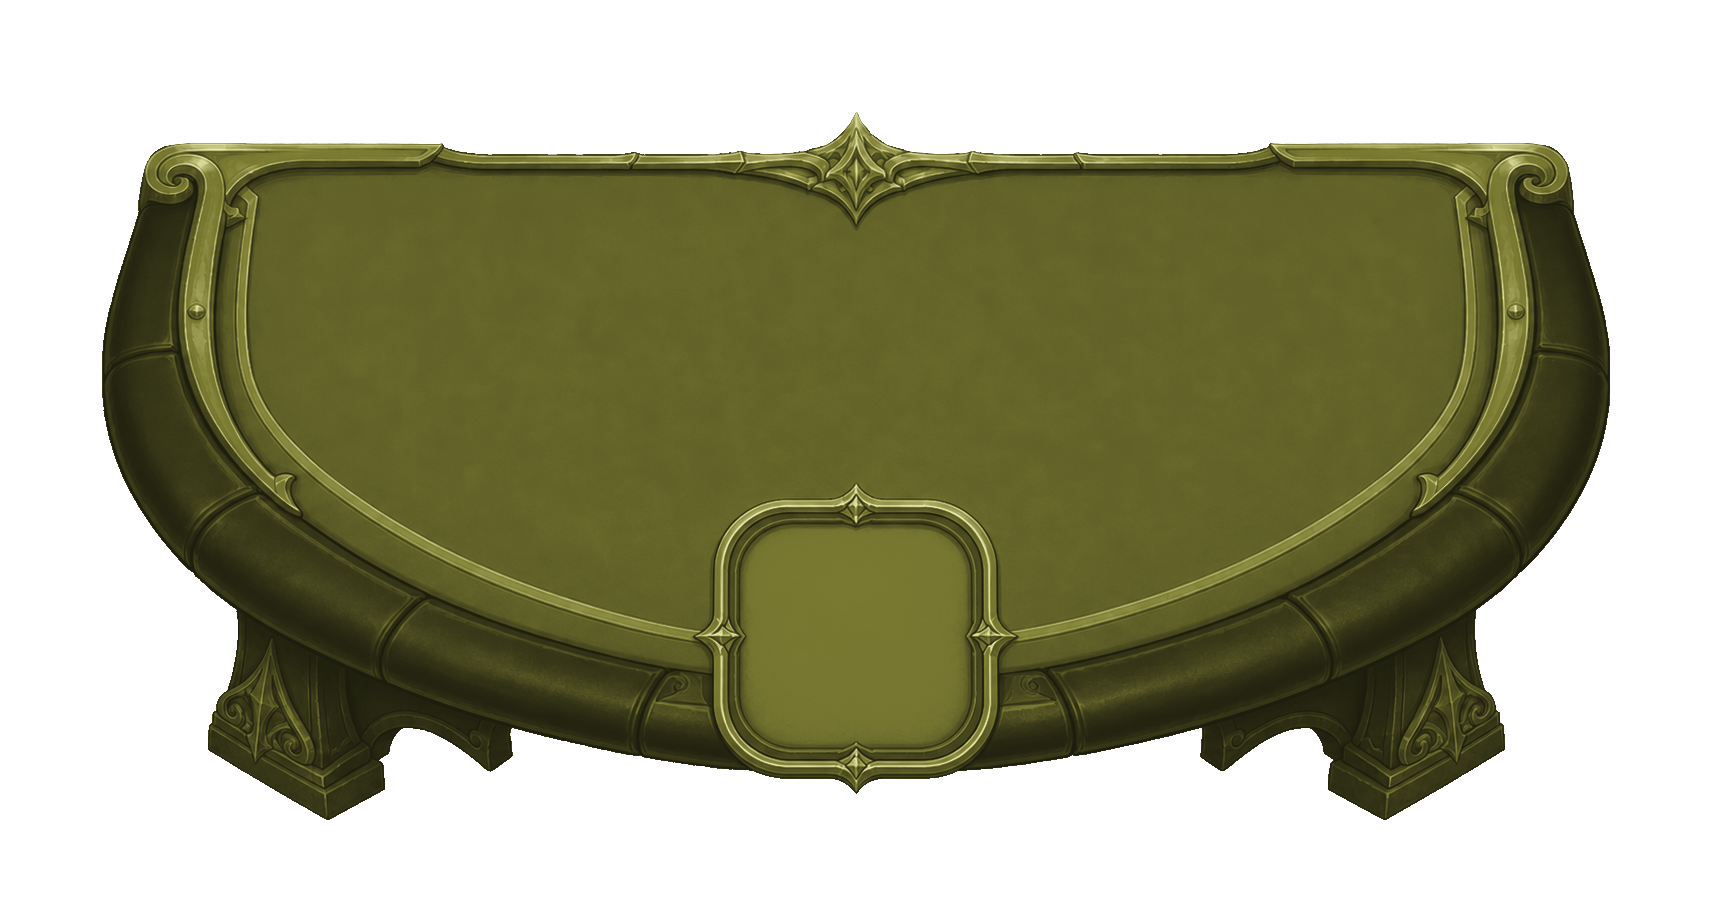
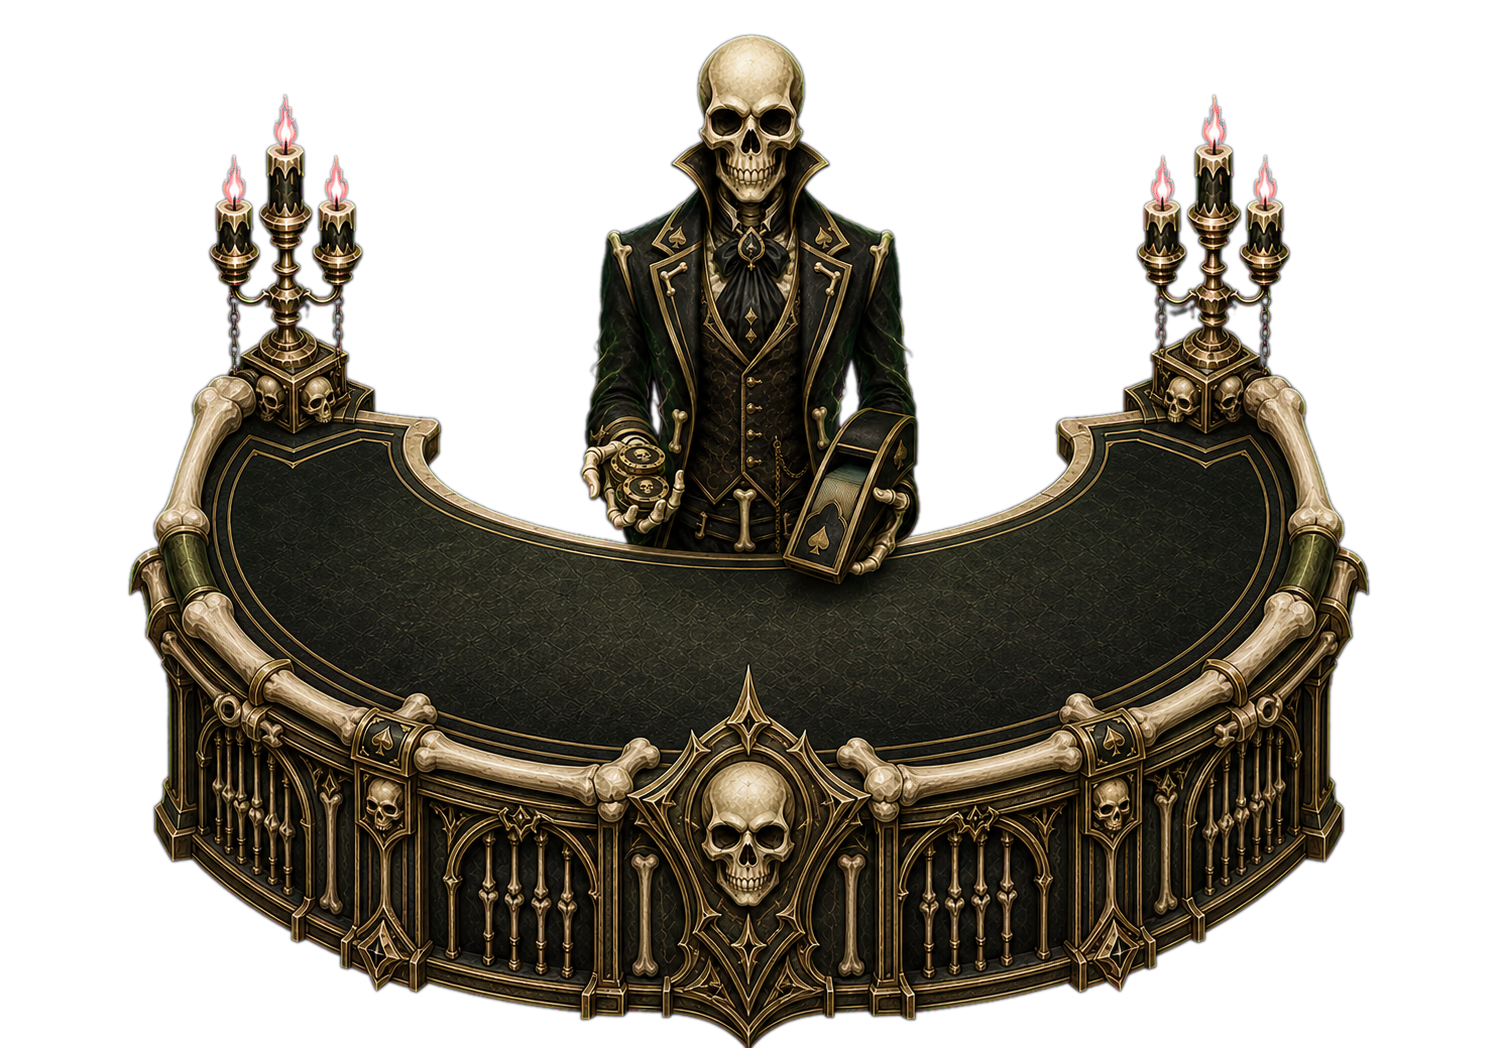
Swap floor assets during elevator loads

diff --git a/src/app.js b/src/app.js
@@ -10,7 +10,7 @@ const MOBILE_IDLE_FPS = 24;
 const MOBILE_PLAY_FPS = 30;
 const MOBILE_ANIMATION_FPS = 40;
 const APP_VERSION = "0.1.0";
-const APP_PUSH_NUMBER = 231;
+const APP_PUSH_NUMBER = 232;
 const MIN_BET = 1;
 const MAX_BET = 500;
 // Match the actual generated floor card-back asset size: 280x420, or 2:3.
@@ -30,6 +30,7 @@ const DEATH_WARP_MS = 1000;
 const DEATH_SILENCE_MS = 900;
 const DEATH_REVERSE_FADE_MS = 5200;
 const FLOORS = 10;
+const GENERATED_SCENE_FLOOR_COUNT = 5;
 const AUDIO_CACHE_BUST = Date.now().toString(36);
 
 const rarityTiers = [
@@ -2143,6 +2144,7 @@ function beginFloorTransitionFromCeremony() {
 function prepareFloorTransitionAssets(t = game?.floorTransition) {
   if (!t || t.assetPromise) return t?.assetPromise || Promise.resolve(true);
   const targetFloorIndex = clamp((Number(t.to) || 1) - 1, 0, Math.max(0, towerFloorCount() - 1));
+  releaseFloorSceneAssetsExcept(targetFloorIndex);
   const keys = floorTransitionAssetKeys(targetFloorIndex, !!t.stopAtShop || !!t.afterShop);
   t.assetsReady = false;
   t.assetPromise = preloadAssetKeys(keys, t.stopAtShop ? "Loading elevator shop" : `Loading Floor ${targetFloorIndex + 1}`).then(() => {
@@ -8500,7 +8502,8 @@ function floorTransitionAssetKeys(floorIndex = Number(game?.floor) || 0, include
   ];
   if (hasSceneArt) {
     keys.push(
-      `map:floor${floor}:background`, `map:floor${floor}:bossPortrait`, `map:floor${floor}:elevator`, `map:floor${floor}:decoration`,
+      `map:floor${floor}:background`, `map:floor${floor}:table`, `map:floor${floor}:bossTable`,
+      `map:floor${floor}:bossPortrait`, `map:floor${floor}:elevator`, `map:floor${floor}:decoration`,
       `tableScene:floor${floor}:background`, `tableScene:floor${floor}:table`, `tableScene:floor${floor}:bossTable`,
       `tableScene:floor${floor}:bossPortrait`, `tableScene:floor${floor}:decoration`
     );
@@ -8620,7 +8623,46 @@ function ensureRequiredAssetKeys(keys = [], label = "Loading required art", atte
 }
 
 function floorHasGeneratedSceneArt(floorIndex = 0) {
-  return clamp(Number(floorIndex) || 0, 0, FLOORS - 1) <= 3;
+  return clamp(Number(floorIndex) || 0, 0, FLOORS - 1) < GENERATED_SCENE_FLOOR_COUNT;
+}
+
+function floorSceneAssetKeys(floorIndex = 0) {
+  const floor = String(clamp(Number(floorIndex) || 0, 0, FLOORS - 1) + 1).padStart(2, "0");
+  return [
+    `floor${floor}CardBack`,
+    `tableMotif:floor${floor}`,
+    `map:floor${floor}:background`,
+    `map:floor${floor}:table`,
+    `map:floor${floor}:bossTable`,
+    `map:floor${floor}:bossPortrait`,
+    `map:floor${floor}:elevator`,
+    `map:floor${floor}:decoration`,
+    `tableScene:floor${floor}:background`,
+    `tableScene:floor${floor}:table`,
+    `tableScene:floor${floor}:bossTable`,
+    `tableScene:floor${floor}:bossPortrait`,
+    `tableScene:floor${floor}:decoration`
+  ].filter((key) => handdrawnAssetFiles[key]);
+}
+
+function releaseFloorSceneAssetsExcept(targetFloorIndex = 0) {
+  const keep = clamp(Number(targetFloorIndex) || 0, 0, FLOORS - 1);
+  let released = false;
+  for (let i = 0; i < FLOORS; i++) {
+    if (i === keep) continue;
+    floorSceneAssetKeys(i).forEach((key) => {
+      if (handdrawnImages[key]) {
+        delete handdrawnImages[key];
+        assetRetryCounts.delete(key);
+        chromaKeyedAssetCache.delete(key);
+        released = true;
+      }
+    });
+  }
+  if (released) {
+    tintedHanddrawnCache.clear();
+    paletteShiftedAssetCache.clear();
+  }
 }
 
 function criticalAssetKeys() {

diff --git a/index.html b/index.html
@@ -52,6 +52,6 @@
       </section>
     </main>
     <script src="https://cdn.jsdelivr.net/npm/@supabase/supabase-js@2" onerror="this.onerror=null;this.src='https://unpkg.com/@supabase/supabase-js@2'"></script>
-    <script type="module" src="./src/app.js?v=20260714-push231-floor5-vault-assets"></script>
+    <script type="module" src="./src/app.js?v=20260714-push232-floor-swap-assets"></script>
   </body>
 </html>